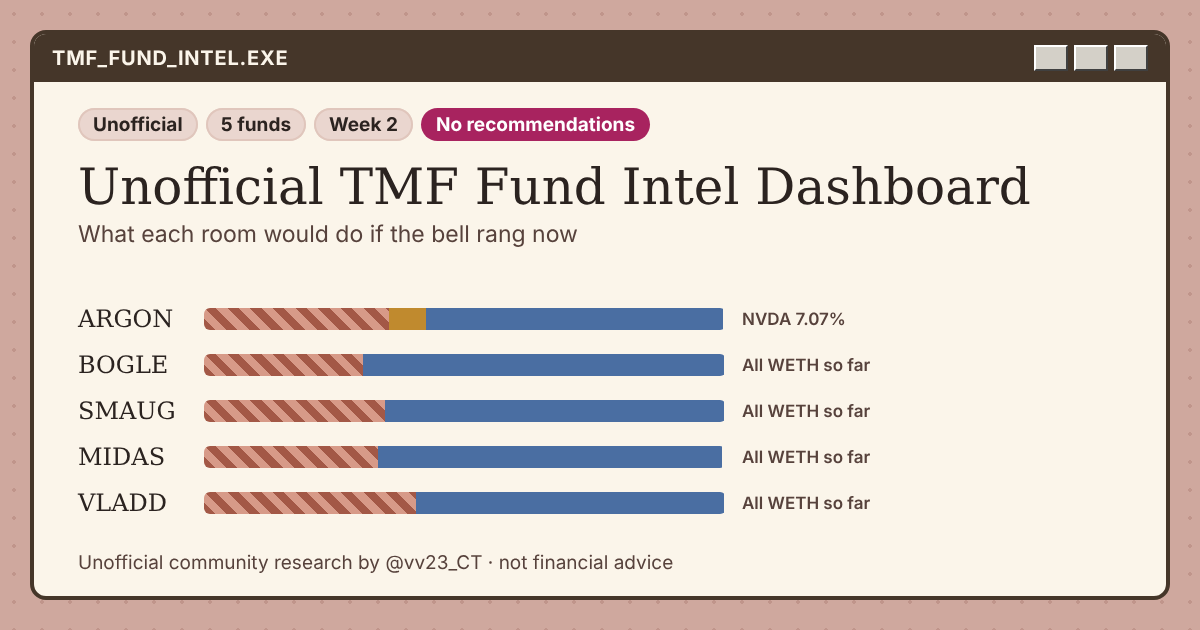
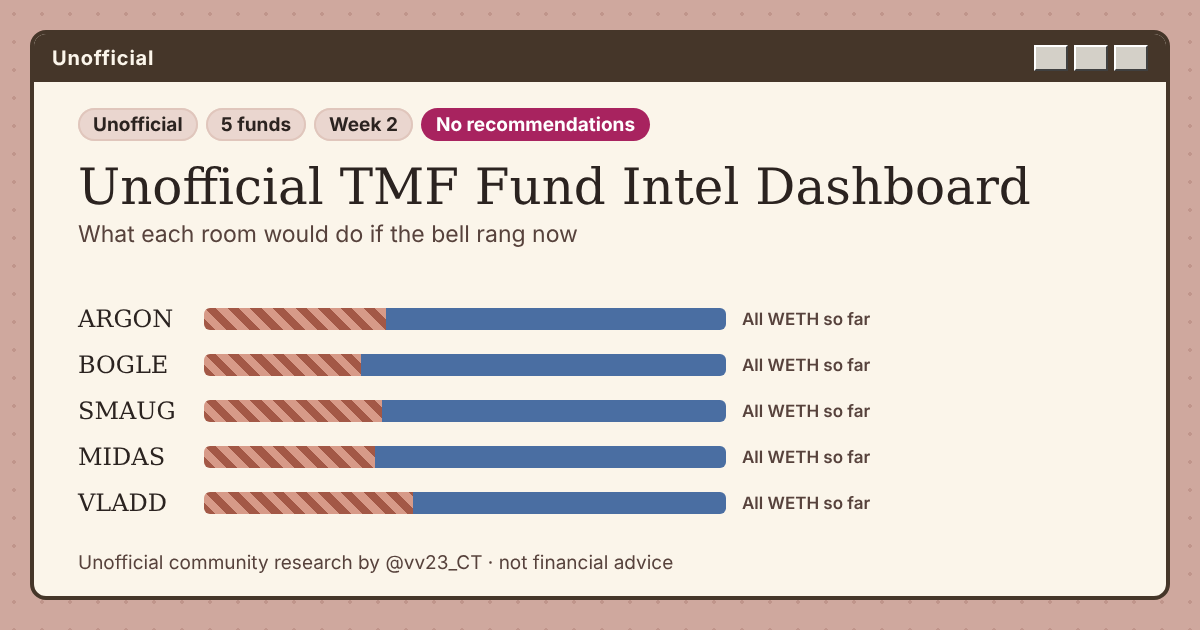
Automate token prices, the share image and fill-capture heads-ups
Claude-Session: https://claude.ai/code/session_01WbiGNaVjyXVgRuSQGNdQ6A

Changed region(s): [[0.0308, 0.0603, 0.2467, 0.1206], [0.6167, 0.4825, 0.74, 0.5127], [0.3083, 0.4825, 0.37, 0.5429]]

diff --git a/index.html b/index.html
@@ -389,8 +389,8 @@ function drawTok(){const f=FI[SEL],box=$('#tokList');box.replaceChildren();
   const row=el('div','trow');const bt=el('button','tbtn');bt.type='button';bt.setAttribute('aria-expanded','false');
   bt.append(el('b',null,r.token),el('span','px',r.onchain),el('span','st '+(s==='backed'?'b':s==='vetoed'?'v':'n'),s==='backed'?P(f.room_tokens[r.token]):s==='vetoed'?'vetoed':'no cards'));
   const d=el('div','tdet');d.append(el('p',null,r.price));if(r.news&&r.news!=='—')d.append(el('p','m',r.news));
-  const fl=f.fills[r.token];const meta=el('p','m',(r.fee*100).toFixed(1).replace('.0','')+'% pool fee'+(fl?' · ~'+fl.n+' Fridays to fill in '+f.name:f.not_in_capture.includes(r.token)?' · fill not in this capture':''));d.append(meta);
-  const src=el('p','src');src.append('Source: ',link(r.source,r.url));d.append(src);
+  const fl=f.fills[r.token];const meta=el('p','m',(r.fee*100).toFixed(1).replace('.0','')+'% pool fee'+(fl?' · ~'+fl.n+' Fridays to fill in '+f.name:f.status[r.token]==='backed'?' · fill time not captured yet':f.not_in_capture.includes(r.token)?' · fill not in this capture':''));d.append(meta);
+  if(r.onchain_asof_utc)d.append(el('p','m','On-chain price '+r.onchain+' as of '+local(r.onchain_asof_utc)+' (TMF price desk)'));const src=el('p','src');src.append('Source: ',link(r.source,r.url));d.append(src);
   bt.addEventListener('click',()=>{const o=!row.classList.contains('open');row.classList.toggle('open',o);bt.setAttribute('aria-expanded',String(o));});
   row.append(bt,d);box.append(row);});}
 $$('#tchips .chip').forEach(c=>c.addEventListener('click',()=>{G=c.dataset.g;$$('#tchips .chip').forEach(x=>x.setAttribute('aria-pressed',String(x===c)));drawTok();}));
@@ -428,7 +428,10 @@ addEventListener('hashchange',()=>{const h=location.hash.slice(1).toLowerCase();
  /* newer turnout from the 30-minute chain reader, if it's there */
  .then(d=>(window.__CHAIN__?Promise.resolve(window.__CHAIN__):fetch('chain.json',{cache:'no-store'}).then(r=>r.ok?r.json():null).catch(()=>null)).then(c=>{if(c&&c.funds&&c.asof_utc){
    d.chain=Object.assign({},d.chain||{},{url:c.url||(d.chain||{}).url,epoch:c.epoch});
-   if(!d.updated_utc||c.asof_utc>d.updated_utc)d.updated_utc=c.asof_utc;d.chain_asof_utc=c.asof_utc;if(c.closes_utc&&c.epoch===d.week)d.bell_utc=c.closes_utc;
+   if(!d.updated_utc||c.asof_utc>d.updated_utc)d.updated_utc=c.asof_utc;d.chain_asof_utc=c.asof_utc;
+   /* token prices in WETH from TMF's price desk, in the same units the ballot uses */
+   if(c.prices)(d.tokens||[]).forEach(t=>{const p=c.prices[t.token];if(!p)return;const m=/per 1M/.test(t.onchain||'');
+     t.onchain=(m?(p*1e6).toFixed(4):p.toFixed(6))+' WETH'+(m?' per 1M':'');t.onchain_asof_utc=c.asof_utc;});if(c.closes_utc&&c.epoch===d.week)d.bell_utc=c.closes_utc;
    (d.funds||[]).forEach(f=>{const x=c.funds[f.id];if(x&&(!f.turnout||c.asof_utc>f.turnout.asof_utc))f.turnout={enrolled:x.enrolled,voted:x.voted,enrolled_weight:x.enrolled_weight,asof_utc:c.asof_utc,epoch:c.epoch};
      /* the room itself, rebuilt from on-chain cards, when it is newer than the last ballot capture (same week only) */
      const r=x&&x.room;if(r&&r.tmf_held!=null&&c.epoch===d.week&&(!f.asof_utc||c.asof_utc>f.asof_utc)){

diff --git a/tools/og-template.html b/tools/og-template.html
@@ -13,8 +13,8 @@ p{font-size:23px;margin:0;color:#57423c}
 .bar div{height:100%}.tmf{background:repeating-linear-gradient(45deg,#a35846 0 8px,#d79a88 8px 16px)}.weth{background:#4a6ea2}
 .l{font-size:17px;font-weight:600;color:#57423c;white-space:nowrap}
 .ft{position:absolute;left:44px;bottom:22px;font-size:19px;color:#57423c}
-</style></head><body><div class="s"><div class="t"><span>TMF_FUND_INTEL.EXE</span><span class="w"><i></i><i></i><i></i></span></div>
-<div class="b"><div class="bs"><span class="bg">Unofficial</span><span class="bg">5 funds</span><span class="bg">Week 2</span><span class="bg" style="background:#a8235f;color:#fff;box-shadow:none">No recommendations</span></div>
+</style></head><body><div class="s"><div class="t"><span>Unofficial</span><span class="w"><i></i><i></i><i></i></span></div>
+<div class="b"><div class="bs"><span class="bg">Unofficial</span><span class="bg">5 funds</span><span class="bg">__WEEK__</span><span class="bg" style="background:#a8235f;color:#fff;box-shadow:none">No recommendations</span></div>
 <h1>Unofficial TMF Fund Intel Dashboard</h1><p>What each room would do if the bell rang now</p></div>
 <div class="rows" id="rows"></div>
 <div class="ft">Unofficial community research by @vv23_CT · not financial advice</div></div>
